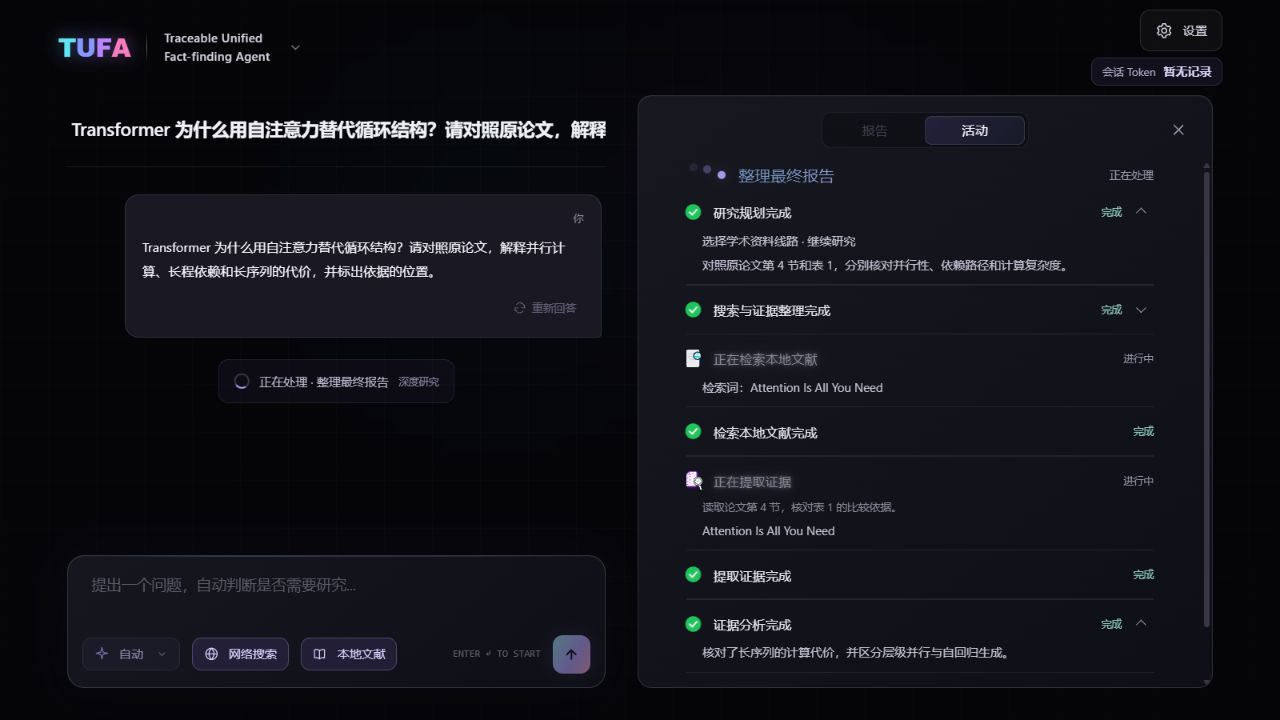
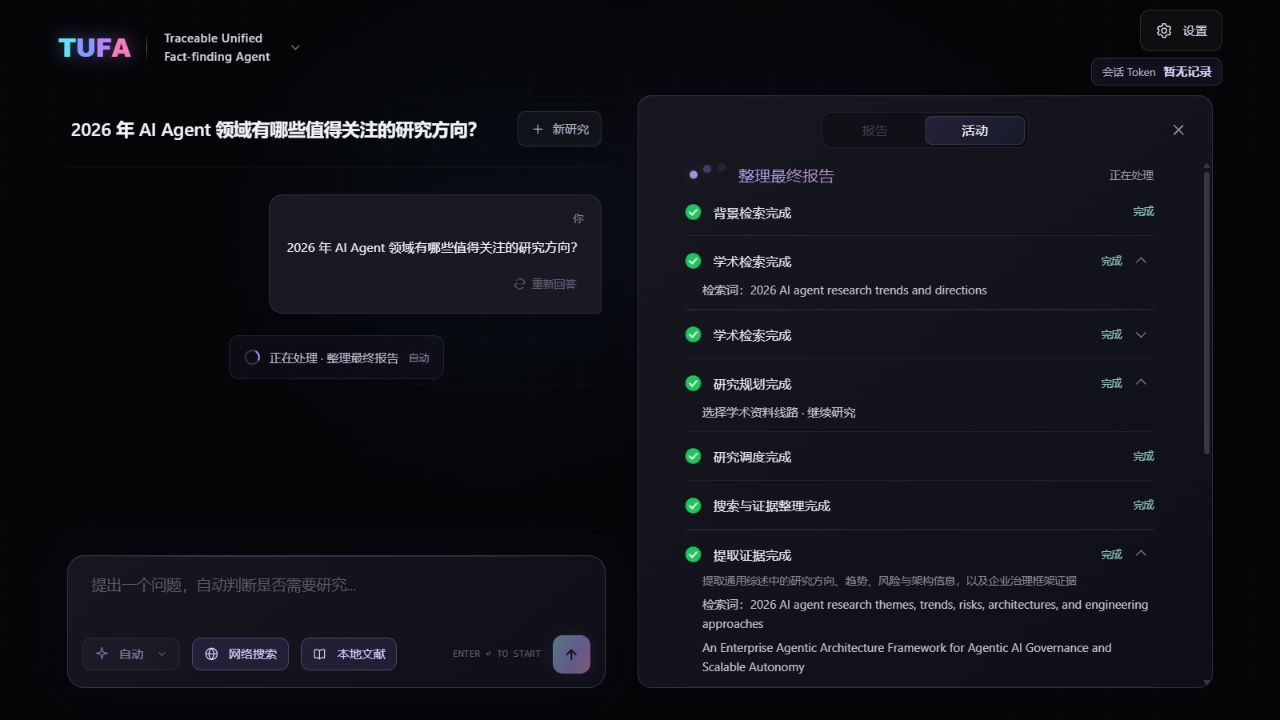
docs: present the research workflow and add MIT license

diff --git a/README.md b/README.md
@@ -2,30 +2,34 @@
 
 **从科研问题到可回查的证据。**
 
-TUFA（Traceable Unified Fact-finding Agent）是在本机运行的科研助手，适合需要查文献、做综述或核对论据的学生和研究人员。提出问题后，你可以跟随它的研究计划、检索和证据审查，在报告中沿着引用回到 PDF 页码、本地文档片段或来源网页。
+TUFA 是在本机运行的科研 Agent。用它查文献、做综述，或带上你自己的资料做专题研究。你可以看着它规划、检索和读原文，再顺着报告里的引用回到证据。
 
-[快速开始](#快速开始) · [使用示例](#使用示例) · [项目文档](#项目文档)
-
-## 界面展示
-
-| 启动页 | 深度研究工作区 | 报告与引用 |
-| --- | --- | --- |
-| ![TUFA 启动页和开始使用入口](assets/screenshots/launch.jpg) | ![研究工作区显示研究问题和活动](assets/screenshots/research.jpg) | ![AI Agent 研究报告展示证据表、编号引用和参考文献](assets/screenshots/report.png) |
-
-截图来自实际界面。研究活动使用下方 Transformer 案例的演示数据，报告截图展示另一次关于 AI Agent 研究方向的问答。
+[快速开始](#快速开始) · [看一次研究](#使用示例) · [项目文档](#项目文档)
 
 ## 核心功能
 
-- **跟进深度研究。** 查看研究计划、检索、原文阅读和证据审查。流程可以根据证据缺口补充检索，最后生成带引用的报告。
-- **让自己的文献参与研究。** 导入 PDF，或批量预处理 PDF、DOCX 和 TXT。TUFA 会生成研究领域、标签和简短描述，研究时先浏览目录信息，再按需读取相关正文。
-- **选择要查的来源。** 深度研究可以结合项目文献、OpenAlex 学术检索和网页搜索。提问时可以分别关掉联网检索或本地文献检索。
-- **顺着引用核对证据。** 报告使用编号引用，按来源提供 PDF 页码、本地 Markdown 字符范围或网页链接。可下载 Markdown 报告和 CSV 证据表。
+- **看得到研究是怎么做的。** 在工作区跟进研究计划、文献检索和证据审查。有缺口时，TUFA 可以继续查资料。
+- **让自己的资料参与研究。** 批量整理 PDF、DOCX 和 TXT，自动生成研究领域、标签和简介。TUFA 先看目录，再按需阅读相关正文。
+- **按问题选来源。** 结合本地文献、OpenAlex 和网页搜索，也可以只查自己的资料。
+- **从结论回到原文。** 用编号引用找到 PDF 页码、本地文档片段或来源网页。研究报告可导出为 Markdown，证据可导出为 CSV。
+
+## 界面展示
+
+<img src="assets/screenshots/launch.jpg" alt="TUFA 启动页" width="640">
+
+### 深度研究工作区
+
+[![AI Agent 研究的学术检索、规划和证据提取过程](assets/screenshots/research.jpg)](assets/screenshots/research.jpg)
+
+### 研究报告与引用
+
+[![AI Agent 研究报告的证据表、编号引用和参考文献](assets/screenshots/report.png)](assets/screenshots/report.png)
 
 ## 快速开始
 
 ### 安装
 
-下面以 Windows PowerShell 为例。准备 Git、Python 3.13、uv、Node.js 22.14 和 pnpm 11.25.0。SQLite 随 Python 提供。
+准备 Git、Python 3.13、uv、Node.js 22.14 和 pnpm 11.25.0，然后在 Windows PowerShell 中运行以下命令。
 
 ```powershell
 git clone https://github.com/iJA774/Tufa-Scholar.git
@@ -36,45 +40,41 @@ pnpm install --frozen-lockfile
 
 ### 配置与启动
 
-在仓库根目录启动。3000 和 8000 端口需空闲，按 Ctrl+C 停止。
+在仓库根目录启动。启动器使用 3000 和 8000 端口。按 Ctrl+C 停止。
 
 ```powershell
 .\start.ps1
 ```
 
-1. 等待浏览器打开 [本机首页](http://127.0.0.1:3000)，点击「开始使用」。
-2. 在「设置 → 服务与模型」填写 OpenAI 兼容服务的 Base URL、API Key 和默认模型 ID。深度研究需要模型服务支持结构化输出和原生函数调用。
-3. 选择「深度研究」，提一个需要查证的问题。网页搜索默认使用 DuckDuckGo，可以在「设置 → 网页搜索」切换服务。文献可在「设置 → 本地文档」放入原文目录，再点击「预处理」。
+1. 打开 [本机首页](http://127.0.0.1:3000)，点击「开始使用」。
+2. 在「设置 → 服务与模型」填入 OpenAI 兼容服务的 Base URL、API Key 和模型 ID。深度研究请选择支持结构化输出和函数调用的模型。
+3. 提问即可开始。想加入自己的资料时，从「设置 → 本地文档」打开原文目录，放入文件后点击「预处理」。
 
-数据默认保存在仓库的 `data/` 目录。模型调用及文档分类会向你配置的服务发送必要内容。设置优先级、手动启动和排障见 [开发指南](docs/DEVELOPMENT.md#运行与诊断)。导入与格式限制见 [本地文档指南](docs/DOCUMENTS.md)。
+研究记录默认存放在本机 `data/` 目录。研究和文档分类会将所需内容发送给你配置的模型服务。手动启动、环境变量和排障见 [开发指南](docs/DEVELOPMENT.md#运行与诊断)。
 
 ## 使用示例
 
-> Transformer 为什么用自注意力替代循环结构？请对照原论文，解释并行计算、长程依赖和长序列的代价，并标出依据的位置。
+> 2026 年 AI Agent 领域有哪些值得关注的研究方向？
 
-1. 下载 [《Attention Is All You Need》会议版 PDF](https://papers.nips.cc/paper_files/paper/2017/file/3f5ee243547dee91fbd053c1c4a845aa-Paper.pdf)，放入原文目录并预处理。
-2. 在同一项目选择「深度研究」，打开「本地文献」并关掉「网络搜索」，将研究范围限定在本地。提交问题后，可在「活动」查看研究计划、文献读取和审查。
-3. 在「报告」核对编号引用。这个案例可以回到论文第 4 节和表 1（PDF 第 6 页）检查并行性、信息传递路径和计算复杂度，再下载报告与证据表。
+1. 打开「网络搜索」并提交问题。想直接进入研究流程，可以选择「深度研究」。
+2. 在「活动」看 TUFA 如何从学术检索展开研究，再提取证据、整理主题。
+3. 打开「报告」，从证据表和编号引用回到具体文献。这次报告归纳了 Agent 架构、Agentic RAG 和安全治理等方向。你可以下载 Markdown 报告和 CSV 证据表，继续阅读或整理。
 
-报告示例：原论文表 1 给出的最大路径长度，自注意力层为 O(1)，循环层为 O(n)。可用报告中的编号找到论文和对应页码。
+## 适用范围
 
-## 限制与路线图
-
-- TUFA 面向本机单用户，快速开始以 Windows 为例。
-- 扫描 PDF 需要先做 OCR，加密 PDF 需要先解密。复杂版式和动态网页可能提取不全。
-- 引用可用于回查来源，报告结论仍需结合原文复核。模型与搜索服务的兼容性和结果质量因提供商而异。
-
-OCR、语义检索和历史报告版本管理仍待实现。详见 [当前能力与限制](docs/STATUS.md#尚未实现或未验证)。
+TUFA 面向本机单人研究。文本型 PDF 可以直接读，扫描件先做 OCR，加密 PDF 先解密。更多格式支持和现阶段能力见 [本地文档指南](docs/DOCUMENTS.md#支持格式)与 [项目状态](docs/STATUS.md)。
 
 ## 项目文档
 
-| 我想了解 | 文档 |
+| 文档 | 内容 |
 | --- | --- |
-| 文档导入、预处理和定位 | [本地文档指南](docs/DOCUMENTS.md) |
-| 网页搜索与服务配置 | [网页搜索](docs/WEB_SEARCH.md) |
-| 当前能力和已知限制 | [项目状态](docs/STATUS.md) |
-| HTTP 接口和调用示例 | [API 指南](docs/API.md) |
-| 工作流、来源范围和研究预算 | [架构](docs/ARCHITECTURE.md) |
-| 本地开发、诊断与验证 | [开发指南](docs/DEVELOPMENT.md) · [仓库协作规则](AGENTS.md) |
+| [本地文档指南](docs/DOCUMENTS.md) | 导入、预处理和原文定位 |
+| [网页搜索](docs/WEB_SEARCH.md) | 搜索引擎与服务配置 |
+| [项目状态](docs/STATUS.md) | 已实现能力与后续方向 |
+| [API 指南](docs/API.md) | HTTP 接口和调用示例 |
+| [架构](docs/ARCHITECTURE.md) | 工作流、来源范围与研究预算 |
+| [开发指南](docs/DEVELOPMENT.md) · [仓库协作规则](AGENTS.md) | 本地开发、诊断与验证 |
 
-研究面板的第三方来源及许可见 [前端说明](apps/web/README.md)。
+## 许可证
+
+项目采用 [MIT 许可证](LICENSE)。研究面板的第三方来源及许可见 [前端说明](apps/web/README.md)。
